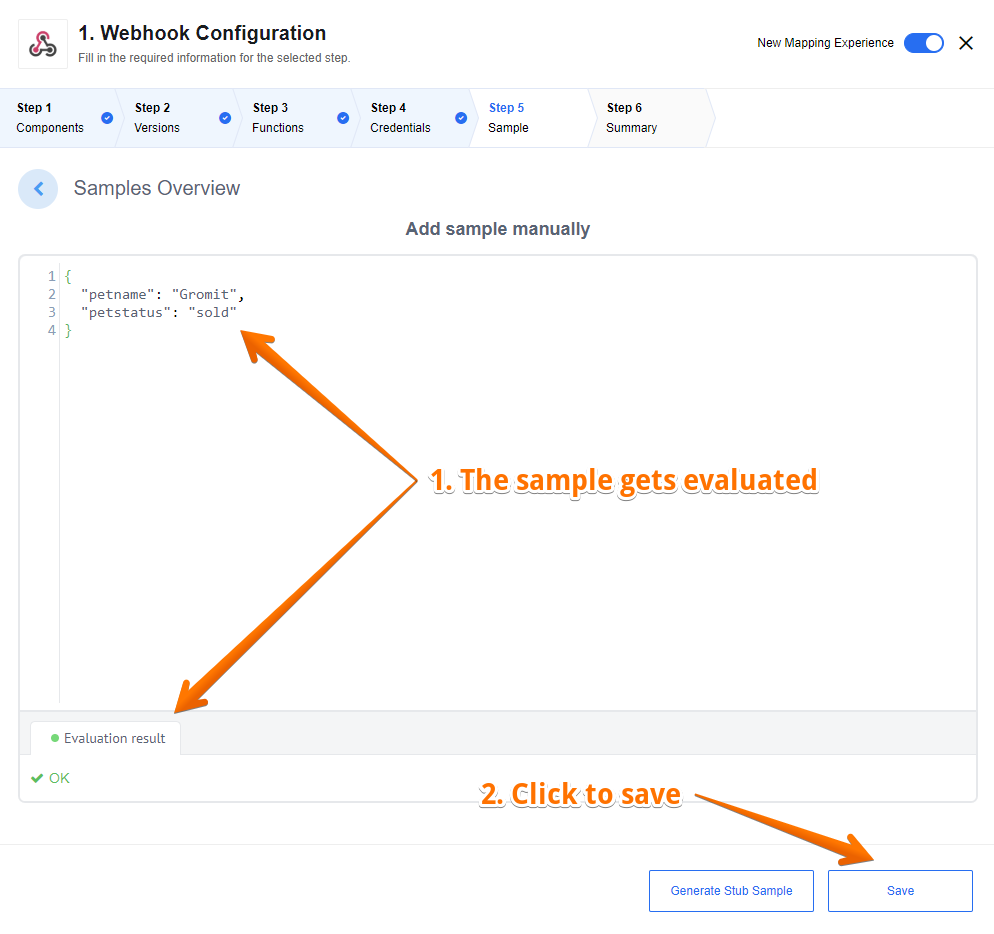
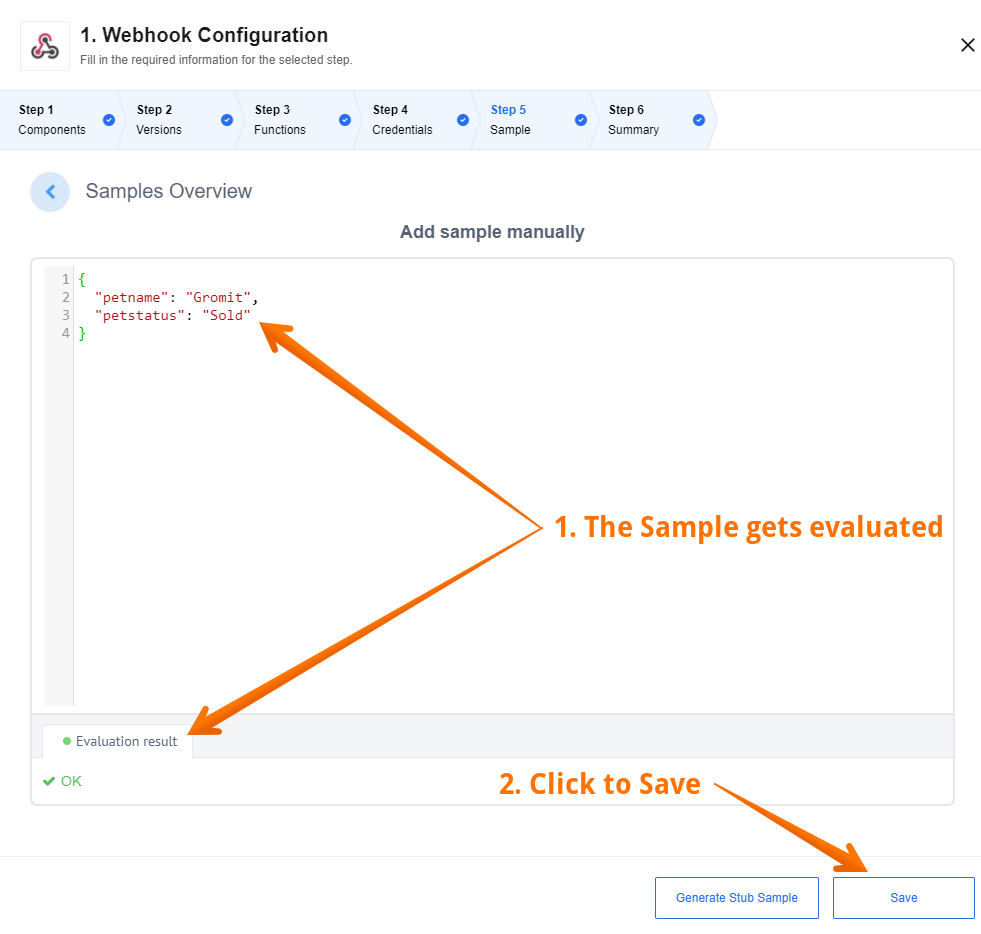
Petstore component update

diff --git a/content/_getting-started/webhooks-flow.md b/content/_getting-started/webhooks-flow.md
@@ -68,7 +68,7 @@ Paste the following `JSON` in the input field:
 ```js
 {
   "petname": "Gromit",
-  "petstatus": "sold"
+  "petstatus": "Sold"
 }
 ```
 
@@ -155,7 +155,7 @@ Open the Postman and follow these steps:
 ```js
 {
   "petname": "Gromit",
-  "petstatus": "sold"
+  "petstatus": "Sold"
 }
 ```
 4.  Click on *Send* button in the right upper corner to send the data to your webhook flow. In response, {{site.data.tenant.name}} platform will reply with a similar message shown on the screenshot.
@@ -194,7 +194,7 @@ webhook URL using `curl` on a terminal.
 curl -X POST https://in.{{site.data.tenant.name}}/hook/{FLOW_ID} -u {USERNAME}:{PASSWORD} \
 -H 'Content-Type: application/json' -d '{
   "petname": "Gromit",
-  "petstatus": "sold"
+  "petstatus": "Sold"
 }'
 ```
 
